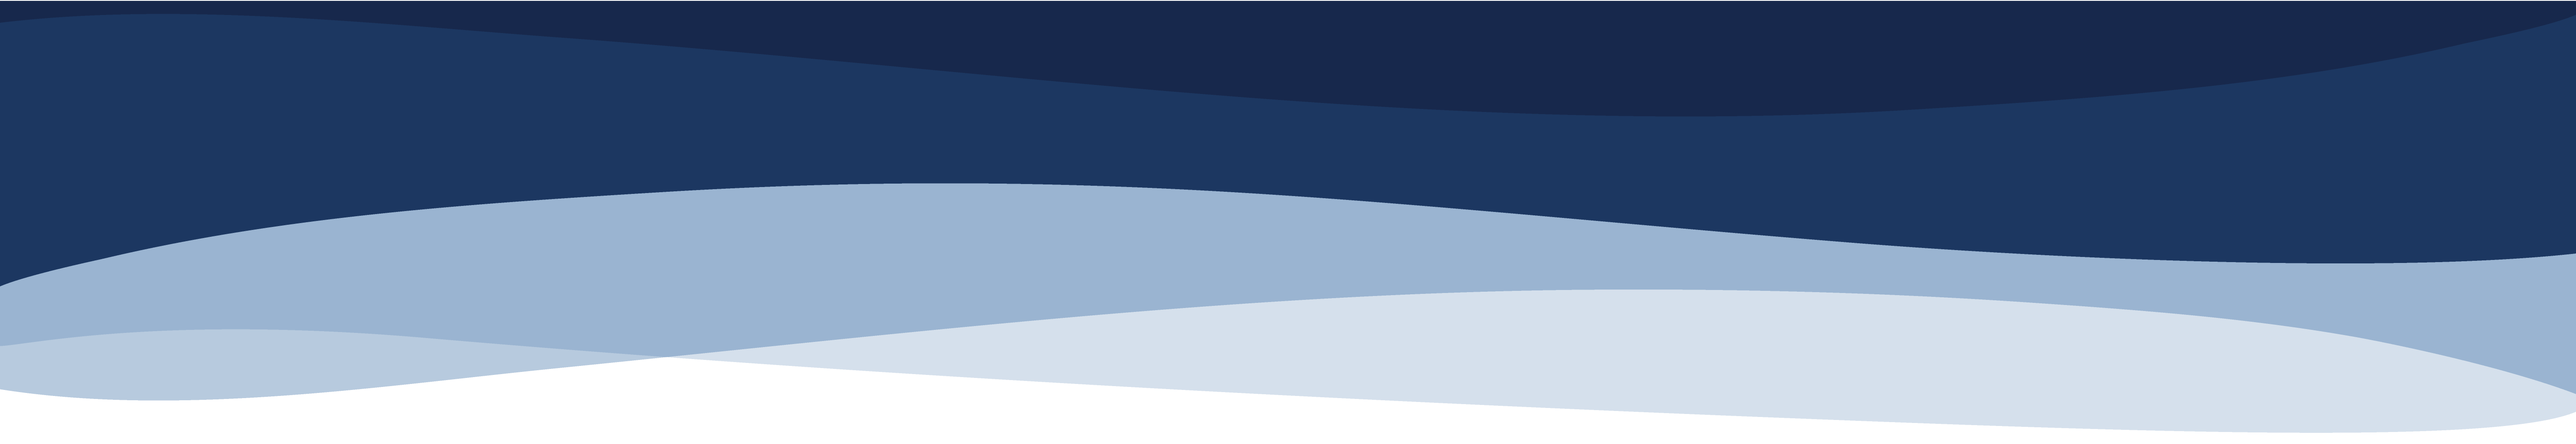
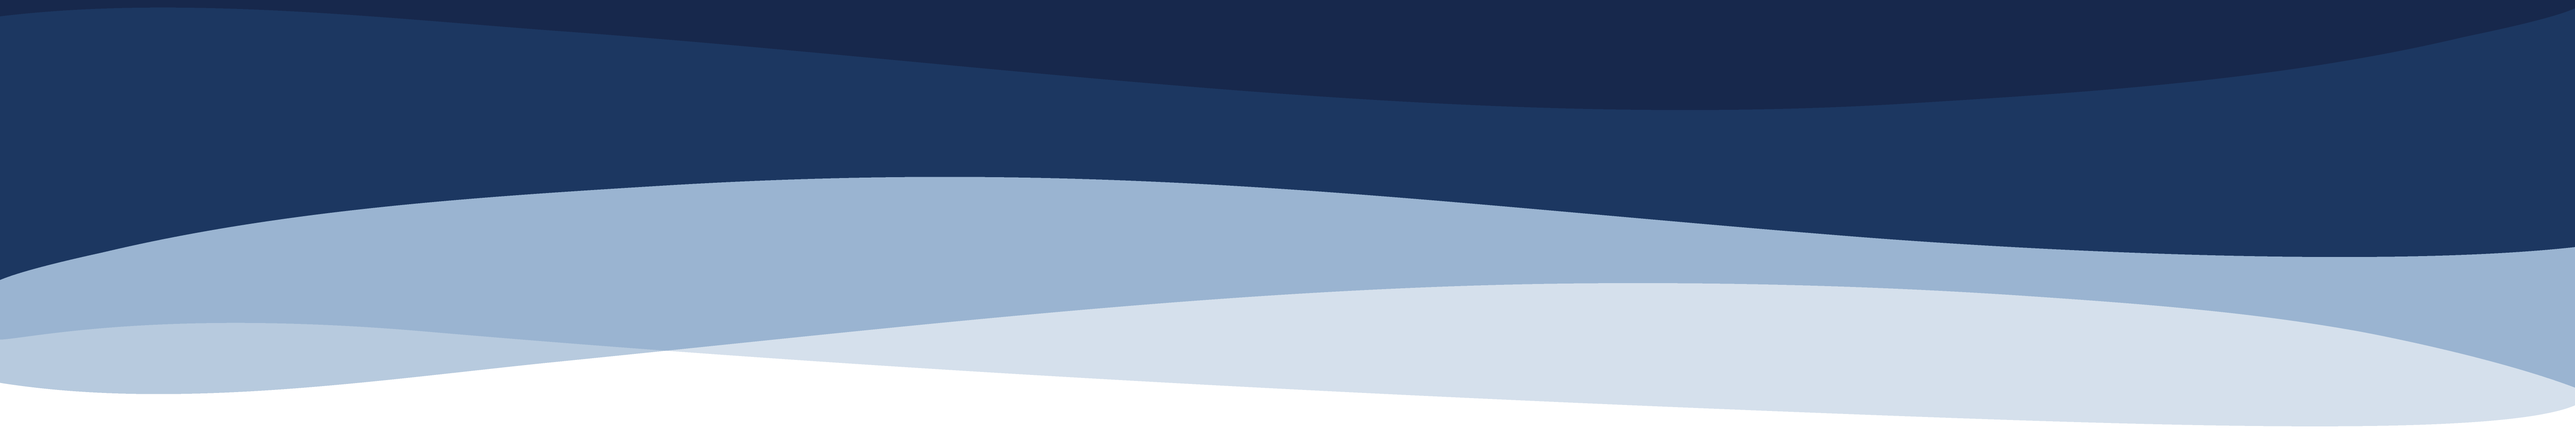
Many things

diff --git a/src/components/navigation/navigation.tsx b/src/components/navigation/navigation.tsx
@@ -1,25 +1,13 @@
 import React from 'react';
 import { AnchorLink } from 'gatsby-plugin-anchor-links';
 import { Menu, Container, Header, Image, Button } from 'semantic-ui-react';
-import smallLogo from '../assets/images/smalllogo.png';
-import styles from './css/navigation.module.css';
+import smallLogo from '../../assets/images/smalllogo.png';
+import css from './navigation.module.css';
 
 export const Navigation = () => {
   return (
     <>
-      <Menu
-        secondary
-        pointing
-        fixed="top"
-        style={{
-          backgroundColor: '#17284C',
-          display: 'flex',
-          alignItems: 'center',
-          paddingTop: 6,
-          paddingBottom: 6,
-          borderBottom: 'none',
-        }}
-      >
+      <Menu secondary pointing fixed="top" className={css.menu}>
         <Container>
           <Menu.Item header>
             <AnchorLink to="/">
@@ -48,7 +36,7 @@ export const Navigation = () => {
             ].map(({ title, path }) => {
               return (
                 <Menu.Item>
-                  <AnchorLink to={path} title={title} className={styles.link} />
+                  <AnchorLink to={path} title={title} className={css.link} />
                 </Menu.Item>
               );
             })}
@@ -65,7 +53,7 @@ export const Navigation = () => {
           </Menu.Menu>
         </Container>
       </Menu>
-      <div style={{ height: 46 }} />
+      <div style={{ height: 62 }} />
     </>
   );
 };

diff --git a/src/components/hero/hero.tsx b/src/components/hero/hero.tsx
@@ -1,0 +1,48 @@
+import React from 'react';
+import { Header, Button, Grid, Segment, Image } from 'semantic-ui-react';
+import mainLogo from '../../assets/images/mainlogo.png';
+import css from './hero.module.css';
+
+export const Hero = () => {
+  return (
+    <Grid columns={1}>
+      <Grid.Row>
+        <Grid.Column>
+          <Image src={mainLogo} style={{ width: '7em', margin: 'auto' }} />
+          <Header
+            inverted
+            as="h1"
+            textAlign="center"
+            style={{ marginTop: 12, fontFamily: 'Avenir' }}
+          >
+            indelo
+          </Header>
+          <Header
+            inverted
+            as="h3"
+            textAlign="center"
+            style={{ fontFamily: 'Avenir' }}
+          >
+            We solve business problems with software
+          </Header>
+          <Segment
+            basic
+            textAlign="center"
+            style={{ fontSize: '1.33em', margin: 0, padding: 0 }}
+          >
+            <p style={{ color: 'gray', fontFamily: 'Avenir' }}>
+              Website development - UI/UX - Design - Branding - SEO
+            </p>
+          </Segment>
+        </Grid.Column>
+      </Grid.Row>
+      <Grid.Row>
+        <Grid.Column textAlign="center">
+          <Button color="red" size="huge" style={{ fontFamily: 'Avenir' }}>
+            Schedule a chat
+          </Button>
+        </Grid.Column>
+      </Grid.Row>
+    </Grid>
+  );
+};

diff --git a/src/pages/index.tsx b/src/pages/index.tsx
@@ -1,28 +1,29 @@
 import React from 'react';
-import { Container } from 'semantic-ui-react';
 import { SEO } from '../components/seo';
 import { Layout } from '../components/layout';
 import { Services } from '../components/services';
 import { TechnologyStack } from '../components/technology-stack';
 import { AboutUs } from '../components/about-us';
 import { ContactForm } from '../components/contact-form';
-import { Hero } from '../components/hero';
+import { Hero } from '../components/hero/hero';
+import waves from '../assets/images/waves.png';
+import css from './index.module.css';
 
 const RootIndex = () => {
   return (
     <>
       <SEO />
       <Layout>
-        <Container
-          fluid
-          style={{
-            paddingTop: '200px',
-            height: 'calc(100vh - 46px)',
-            backgroundColor: '#17284C',
-          }}
-        >
-          <Hero />
-        </Container>
+        <div className={css.container}>
+          <div style={{ display: 'flex', flexDirection: 'column' }}>
+            <div className={css.heroContainer}>
+              <Hero />
+            </div>
+            <div>
+              <img style={{ width: '100vw' }} alt="waves" src={waves} />
+            </div>
+          </div>
+        </div>
         <Services />
         <TechnologyStack />
         <AboutUs />

diff --git a/src/components/layout.tsx b/src/components/layout.tsx
@@ -1,7 +1,7 @@
 import React from 'react';
 import { Container } from 'semantic-ui-react';
-import { Navigation } from './navigation';
 import { Footer } from './footer';
+import { Navigation } from './navigation/navigation';
 
 export const Layout = ({
   children,

diff --git a/src/pages/index.module.css b/src/pages/index.module.css
@@ -1,0 +1,13 @@
+.container {
+  height: calc(100vh - 62px);
+}
+
+.heroContainer {
+  padding-top: 110px;
+  background-color: #17284c;
+  padding-bottom: 80px;
+}
+
+.waveImage {
+  width: 100vh;
+}

diff --git a/src/components/navigation/navigation.module.css b/src/components/navigation/navigation.module.css
@@ -1,0 +1,10 @@
+.link a {
+  color: #fff;
+}
+
+.menu {
+  background-color: #17284c !important;
+  display: flex;
+  align-items: center;
+  border-bottom: none !important;
+}

diff --git a/src/components/hero/hero.module.css b/src/components/hero/hero.module.css
@@ -1,0 +1,3 @@
+.header {
+  font-family: 'Avenir';
+}
